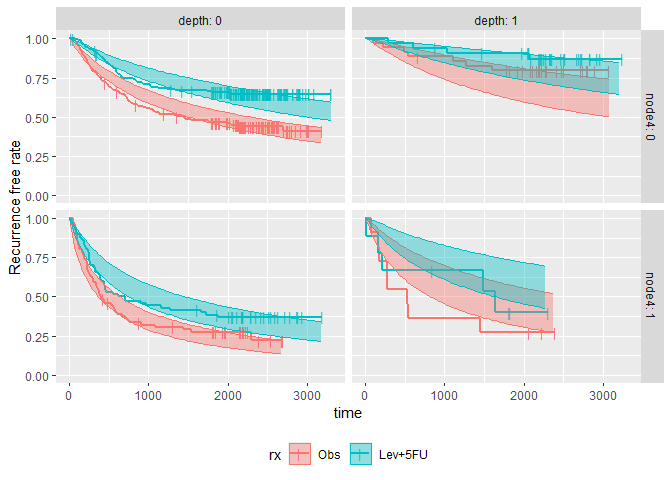
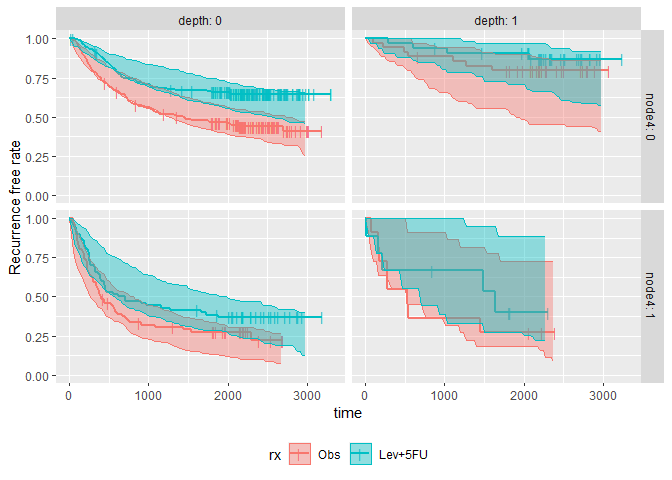
Use original calc_km_pi in README and vignettes until calc_ave_km_pi ecosystem mature

diff --git a/README.md b/README.md
@@ -52,6 +52,7 @@ library(dplyr)
 library(ggplot2)
 library(survival)
 library(survParamSim)
+#> Warning: package 'survParamSim' was built under R version 4.2.3
 
 set.seed(12345)
 
@@ -97,10 +98,15 @@ sim
 Calculate survival curves with prediction intervals:
 
 ``` r
-km.pi <- calc_ave_km_pi(sim, trt = "rx", group = c("node4", "depth"))
+km.pi <- calc_km_pi(sim, trt = "rx", group = c("node4", "depth"))
+#> Warning in calc_km_pi(sim, trt = "rx", group = c("node4", "depth")): 339 of 800
+#> simulations (#rep * #trt * #group) did not reach median survival time and these
+#> are not included for prediction interval calculation. You may want to delay the
+#> `censor.dur` in simulation.
 
 km.pi
 #> ---- Simulated and observed (if calculated) survival curves ----
+#> * Use `extract_medsurv_pi()` to extract prediction intervals of median survival times
 #> * Use `extract_km_pi()` to extract prediction intervals of K-M curves
 #> * Use `plot_km_pi()` to draw survival curves
 #> 
@@ -108,8 +114,7 @@ km.pi
 #>     trt: rx 
 #>     group: node4 
 #>     pi.range: 0.95 
-#>     calc.obs: TRUE 
-#>     method: Average survival using `calc_ave_km_pi()`
+#>     calc.obs: TRUE
 plot_km_pi(km.pi) +
   theme(legend.position = "bottom") +
   labs(y = "Recurrence free rate") +
@@ -119,13 +124,27 @@ plot_km_pi(km.pi) +
 <img src="man/figures/README-km_pi_group-1.png" width="100%" />
 
 ``` r
-# extract_medsurv_pi(km.pi)
+extract_medsurv_pi(km.pi) # Not implemented for calc_ave_km_pi yet; available for calc_km_pi
+#> # A tibble: 32 × 7
+#>    node4 depth rx          n description median quantile
+#>    <dbl> <dbl> <fct>   <dbl> <chr>        <dbl>    <dbl>
+#>  1     0     0 Obs       193 pi_low       1257.   0.0250
+#>  2     0     0 Obs       193 pi_med       1895.   0.5   
+#>  3     0     0 Obs       193 pi_high      2713.   0.975 
+#>  4     0     0 Obs       193 obs          1436   NA     
+#>  5     0     0 Lev+5FU   192 pi_low       2429.   0.0250
+#>  6     0     0 Lev+5FU   192 pi_med       2716.   0.5   
+#>  7     0     0 Lev+5FU   192 pi_high      2908.   0.975 
+#>  8     0     0 Lev+5FU   192 obs            NA   NA     
+#>  9     0     1 Obs        35 pi_low       1539.   0.0250
+#> 10     0     1 Obs        35 pi_med       2558.   0.5   
+#> # … with 22 more rows
 ```
 
 Calculate hazard ratios with prediction intervals:
 
 ``` r
-hr.pi <- calc_ave_hr_pi(sim, trt = "rx", group = c("depth"))
+hr.pi <- calc_hr_pi(sim, trt = "rx", group = c("depth"))
 
 hr.pi
 #> ---- Simulated and observed (if calculated) hazard ratio ----
@@ -138,8 +157,7 @@ hr.pi
 #>          ('Lev+5FU' as test trt, 'Obs' as control)
 #>     group: depth 
 #>     pi.range: 0.95 
-#>     calc.obs: TRUE 
-#>     method: average HR using `calc_ave_hr_pi()`
+#>     calc.obs: TRUE
 plot_hr_pi(hr.pi)
 ```
 
@@ -150,12 +168,12 @@ extract_hr_pi(hr.pi)
 #> # A tibble: 8 × 5
 #>   depth rx      description    HR quantile
 #>   <dbl> <fct>   <chr>       <dbl>    <dbl>
-#> 1     0 Lev+5FU pi_low      0.487   0.0250
-#> 2     0 Lev+5FU pi_med      0.609   0.5   
-#> 3     0 Lev+5FU pi_high     0.761   0.975 
+#> 1     0 Lev+5FU pi_low      0.464   0.0250
+#> 2     0 Lev+5FU pi_med      0.624   0.5   
+#> 3     0 Lev+5FU pi_high     0.794   0.975 
 #> 4     0 Lev+5FU obs         0.590  NA     
-#> 5     1 Lev+5FU pi_low      0.408   0.0250
-#> 6     1 Lev+5FU pi_med      0.550   0.5   
-#> 7     1 Lev+5FU pi_high     0.780   0.975 
+#> 5     1 Lev+5FU pi_low      0.233   0.0250
+#> 6     1 Lev+5FU pi_med      0.597   0.5   
+#> 7     1 Lev+5FU pi_high     1.13    0.975 
 #> 8     1 Lev+5FU obs         0.607  NA
 ```
